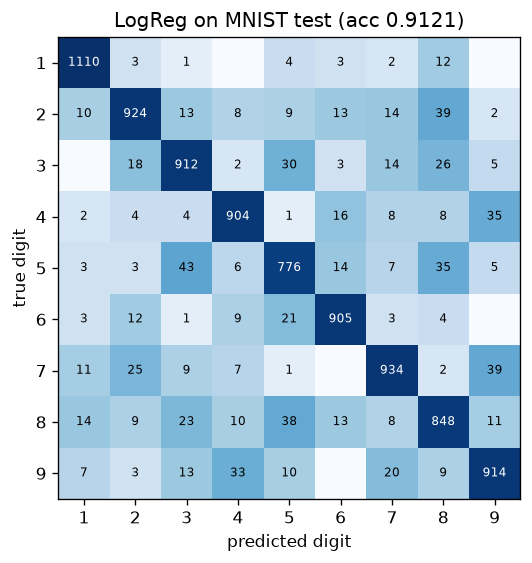
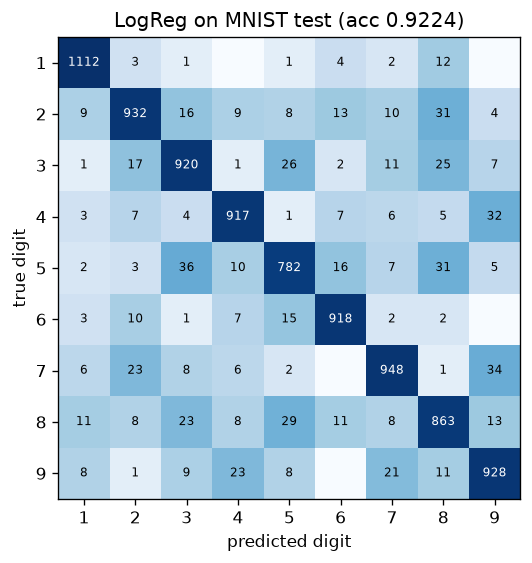
Phase 3: review fixes round 1
- Baseline: logistic regression now trains on the whole train split (45,075 images, same as the
  CNN); metrics.csv gains a train_size column. New numbers: logreg 92.24% test acc,
  ECE 0.0051 raw -> 0.0133 with T=1.076 (raw logreg ECE is slightly below raw CNN 0.0055;
  CNN + T has the lowest ECE, 0.0039)
- train.py prints the MNIST split seed; --seed only seeds training (docstring)
- ReadGrid.top_k default k comes from config.HARD_TOPK
- tests: CNN-vs-baseline test really compares to logreg accuracy; pool-prob tolerance 1e-5

diff --git a/train.py b/train.py
@@ -11,6 +11,7 @@ Steps (seeded with --seed, default config.SEED):
    misread / clean pool masks to data/processed/digit_pools.npz (see DATA_DICTIONARY.md section 5).
 
 Usage:  python train.py [--seed 7] [--quick]
+--seed seeds training only; the train/validation split comes from make_data.py's seed (printed).
 --quick trains on a small subset for 1 epoch and writes to models/quick, results/nn/quick and
 data/processed/digit_pools_quick.npz, so it never overwrites the real models.
 """
@@ -68,6 +69,8 @@ def main() -> None:
     out_dir.mkdir(parents=True, exist_ok=True)
 
     splits = mnist.load_splits()
+    print(f"MNIST split made by make_data.py with seed {mnist.split_seed()} "
+          f"(--seed here only seeds training)")
     train, val, test = splits["train"], splits["val"], splits["test"]
     if args.quick:
         keep = config.make_rng(args.seed).permutation(len(train))[: config.QUICK_TRAIN_SUBSET]
@@ -84,7 +87,8 @@ def main() -> None:
     t_cnn = calibration.fit_temperature(cnn_val, val.classes)
     print(f"  CNN T = {t_cnn:.3f}")
 
-    print(f"[3/6] logistic regression on {min(lr_subset, len(train))} raw-pixel images")
+    lr_size = len(train) if lr_subset is None else min(lr_subset, len(train))
+    print(f"[3/6] logistic regression on {lr_size} raw-pixel images")
     start = time.perf_counter()
     logreg = baseline.train_logreg(train.images, train.classes, lr_subset, args.seed)
     lr_seconds = time.perf_counter() - start
@@ -100,6 +104,7 @@ def main() -> None:
         evaluate("logreg", lr_test, y, 1.0),
         evaluate("logreg+temperature", lr_test, y, t_lr),
     ])
+    metrics["train_size"] = [len(train), len(train), lr_size, lr_size]
     metrics["train_seconds"] = [cnn_seconds, cnn_seconds, lr_seconds, lr_seconds]
     metrics.to_csv(out_dir / "metrics.csv", index=False)
     print(metrics.to_string(index=False, float_format=lambda v: f"{v:.4f}"))

diff --git a/tests/test_nn.py b/tests/test_nn.py
@@ -3,13 +3,14 @@
 Tests marked ``needs_model`` use the models trained by ``python train.py`` and are skipped otherwise.
 """
 
+import joblib
 import numpy as np
 import pytest
 import torch
 
 from sudoku import config
 from sudoku.data import generator, injection, mnist, mosaic
-from sudoku.nn import calibration
+from sudoku.nn import baseline, calibration
 from sudoku.nn.model import DigitCNN, predict_logits
 from sudoku.nn.reader import DigitReader, ReadGrid
 from sudoku.nn.training import train_cnn
@@ -107,11 +108,14 @@ def test_reader_on_empty_mosaic_reads_nothing():
 
 # ---------------------------------------------------------------- trained model (after train.py)
 @needs_model
-def test_trained_cnn_beats_baseline_threshold_on_test():
+def test_trained_cnn_beats_logreg_baseline_on_test():
     reader = DigitReader.load()
     test = mnist.load_splits()["test"]
-    acc = (reader.predict_proba(test.images).argmax(1) == test.classes).mean()
-    assert acc > 0.97
+    logreg = joblib.load(config.MODELS / config.LOGREG_FILE)["model"]
+    cnn_acc = (reader.predict_proba(test.images).argmax(1) == test.classes).mean()
+    lr_acc = (logreg.predict(baseline.flatten(test.images)) == test.classes).mean()
+    assert cnn_acc > 0.97
+    assert cnn_acc > lr_acc
 
 
 @needs_model
@@ -140,4 +144,4 @@ def test_saved_pool_probs_match_reader():
     test = mnist.load_splits()["test"]
     with np.load(config.POOLS_FILE) as data:
         assert data["temperature"] == pytest.approx(reader.temperature)
-        assert np.allclose(data["probs"][:200], reader.predict_proba(test.images[:200]), atol=1e-6)
+        assert np.allclose(data["probs"][:200], reader.predict_proba(test.images[:200]), atol=1e-5)

diff --git a/sudoku/nn/baseline.py b/sudoku/nn/baseline.py
@@ -12,13 +12,13 @@ def flatten(images) -> np.ndarray:
     return images.reshape(len(images), -1)
 
 
-def train_logreg(train_images, train_classes, subset: int = config.LOGREG_TRAIN_SUBSET,
+def train_logreg(train_images, train_classes, subset: int | None = config.LOGREG_TRAIN_SUBSET,
                  seed: int = config.SEED) -> LogisticRegression:
-    """Fit softmax regression on a seeded random subset of the training split.
+    """Fit softmax regression on the training split (or a seeded random subset of ``subset`` images).
 
     With the lbfgs solver and 9 classes scikit-learn fits the multinomial (softmax) model.
     """
-    idx = config.make_rng(seed).permutation(len(train_classes))[:subset]
+    idx = config.make_rng(seed).permutation(len(train_classes))[:subset]  # [:None] = all
     model = LogisticRegression(max_iter=config.LOGREG_MAX_ITER, random_state=seed)
     model.fit(flatten(train_images[idx]), np.asarray(train_classes)[idx])
     return model

diff --git a/sudoku/config.py b/sudoku/config.py
@@ -68,8 +68,8 @@ CNN_CONV_CHANNELS = (16, 32)
 CNN_HIDDEN = 128
 CNN_KERNEL = 3                 # conv kernel size (padding keeps 28x28 before each 2x2 max-pool)
 CNN_EVAL_BATCH = 1024          # batch size when only predicting (no gradients)
-LOGREG_MAX_ITER = 1000         # lbfgs converges in ~205 iterations on the 20k subset
-LOGREG_TRAIN_SUBSET = 20_000   # logistic regression on raw pixels is slow; subset of the train split
+LOGREG_MAX_ITER = 1000         # cap for lbfgs; it converges well before this on MNIST pixels
+LOGREG_TRAIN_SUBSET = None     # None = whole train split (same data as the CNN, fair baseline)
 ECE_BINS = 15
 USE_TEMPERATURE = True         # reader applies temperature scaling fitted on validation
 TEMPERATURE_BOUNDS = (0.05, 20.0)  # search range for the fitted temperature T

diff --git a/sudoku/nn/reader.py b/sudoku/nn/reader.py
@@ -41,7 +41,7 @@ class ReadGrid:
         """(9, 9) probability of the read digit; 0 for blank cells."""
         return self.probs.max(axis=2)
 
-    def top_k(self, r: int, c: int, k: int = 3) -> list:
+    def top_k(self, r: int, c: int, k: int = config.HARD_TOPK) -> list:
         """The k most probable (digit, probability) pairs of cell (r, c), best first."""
         order = np.argsort(-self.probs[r, c])[:k]
         return [(int(class_to_digit(i)), float(self.probs[r, c, i])) for i in order]
